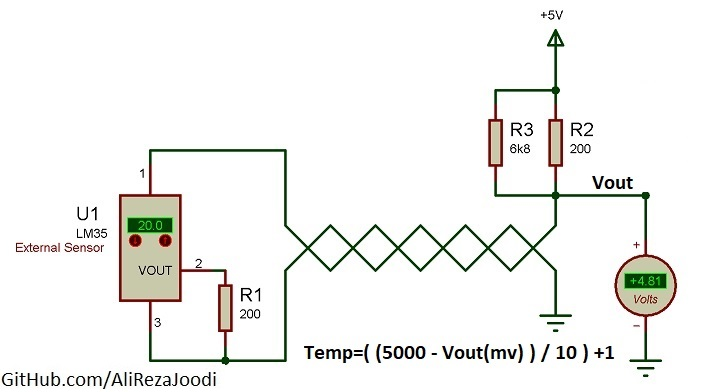
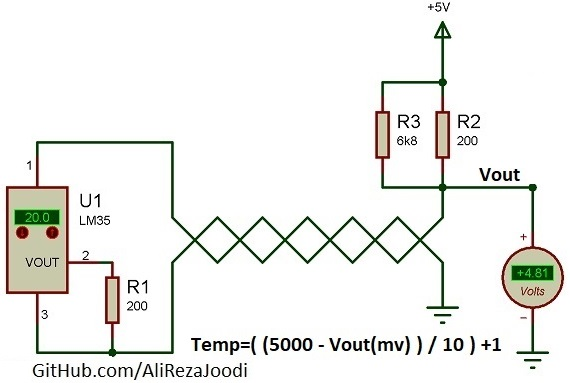
Update

Changed region(s): [[0.0, 0.0, 1.0, 1.0], [0.4474, 0.6606, 0.4772, 0.6893]]

diff --git a/Sensor_LM35_2Wire/README.md b/Sensor_LM35_2Wire/README.md
@@ -11,7 +11,9 @@ It has included:
 ![](Pictures/v2.0.jpg)
 
 ### Schematic: v2.0
-![](Hardware/v2.0.jpg)
+![](Simulate/v2.0.jpg)
+
+Source: LM35 Datasheet (National Semiconductor), Figure 6
 
 My GitHub: [GitHub.com/AliRezaJoodi](https://github.com/AliRezaJoodi)  
 **Note**: [You can go here to download a single folder or file from GitHub.com](https://minhaskamal.github.io/DownGit/#/home)

diff --git a/Sensor_LM35_2Wire/Simulate/README.md b/Sensor_LM35_2Wire/Simulate/README.md
@@ -2,6 +2,8 @@
 
 v2.0:
 - Last opened with Proteus 8 Professional v8.13 SP0
+- Tested successfully
 
 v1.0:
 - Last opened with Proteus 8 Professional v8.13 SP0
+- Tested successfully
